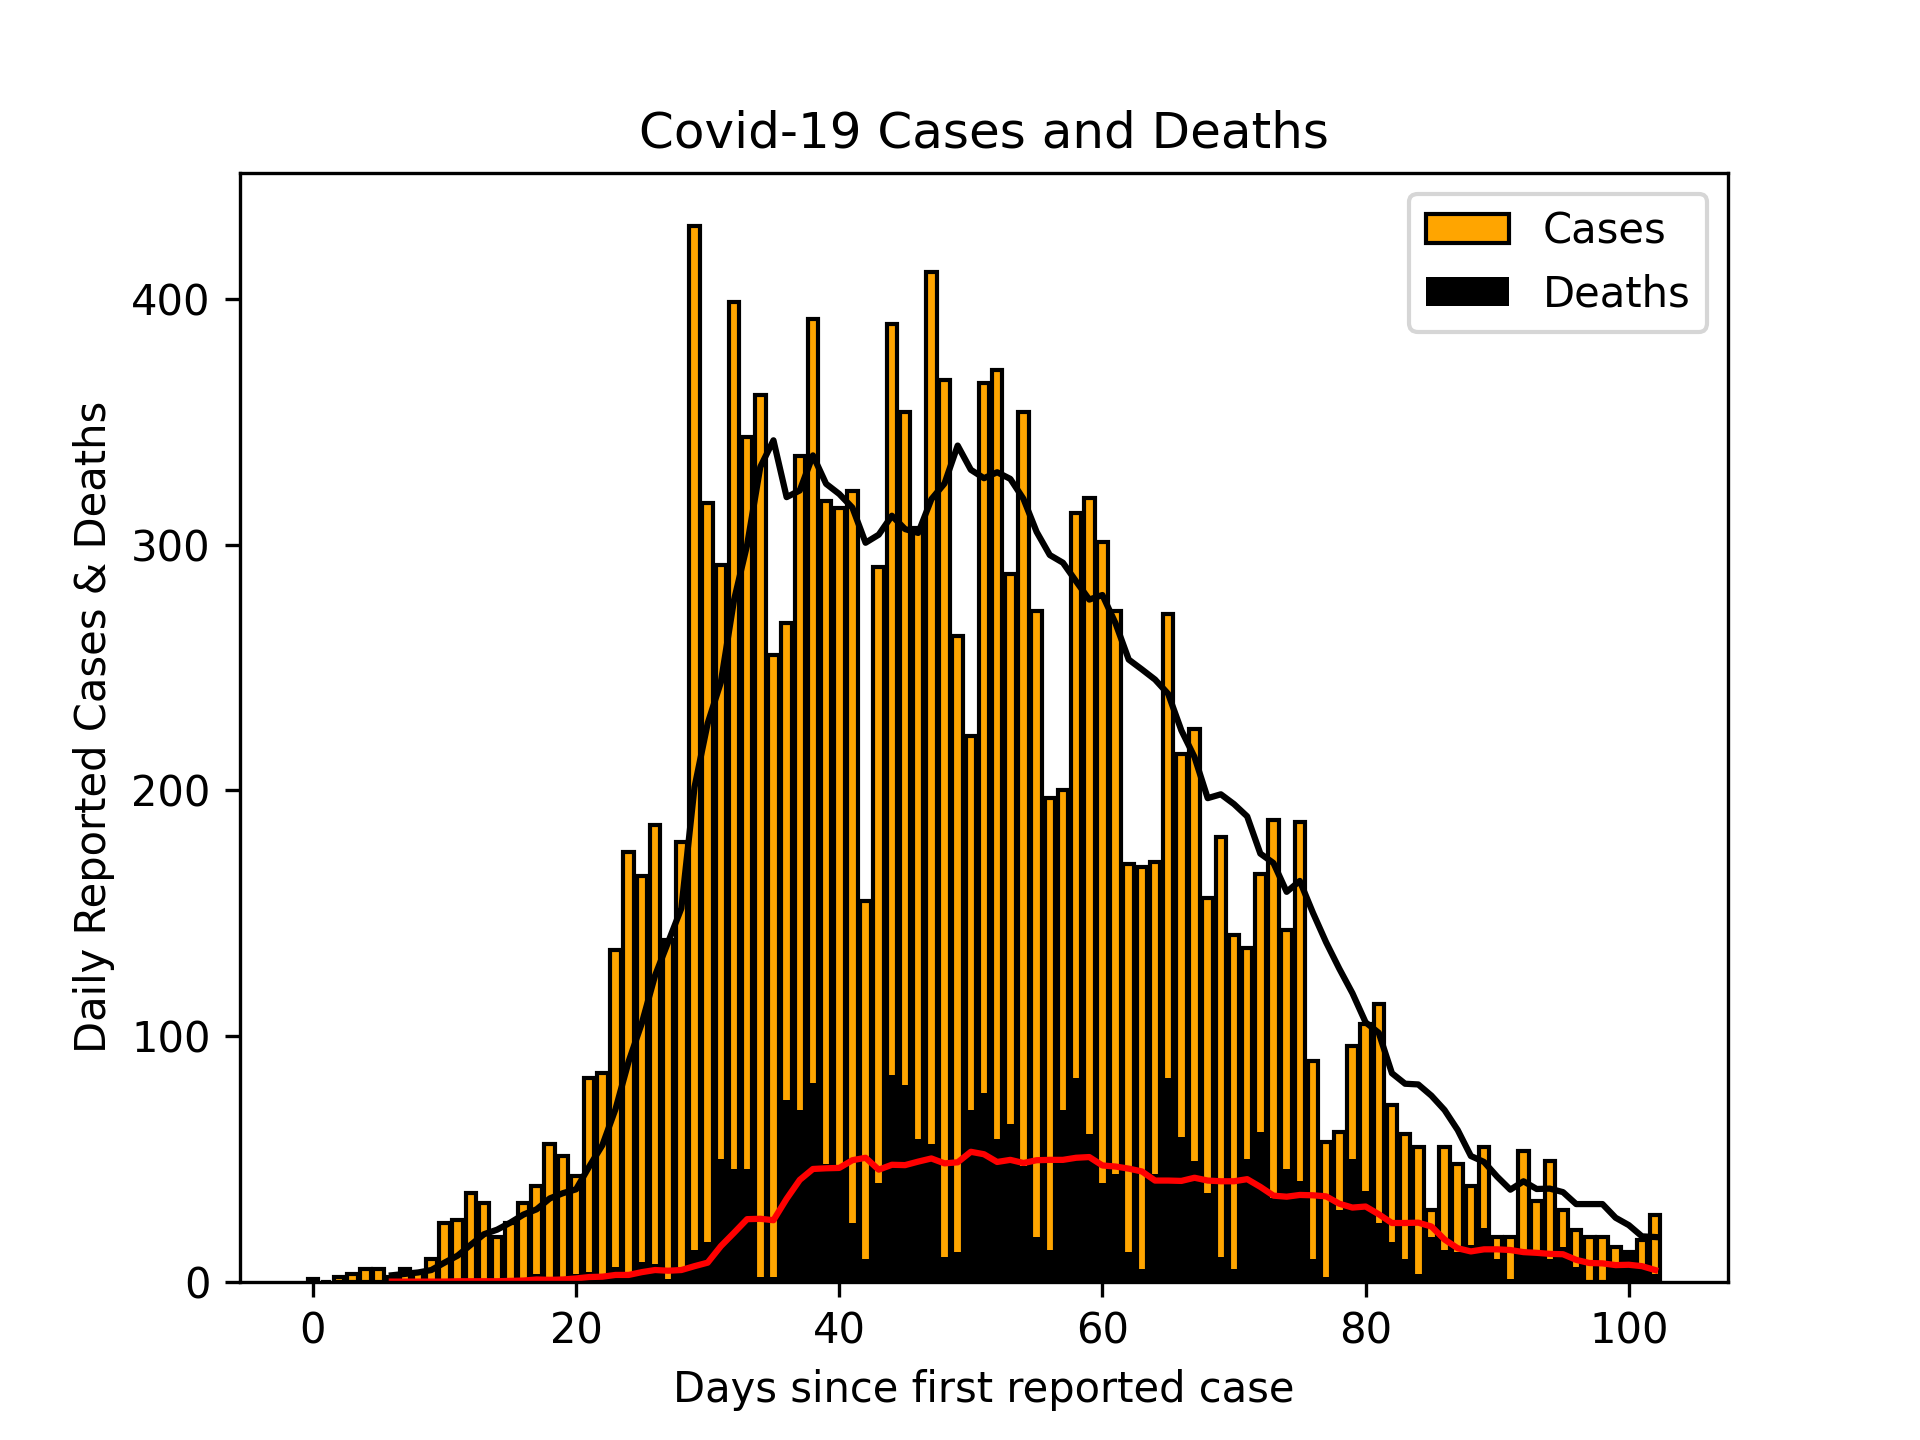
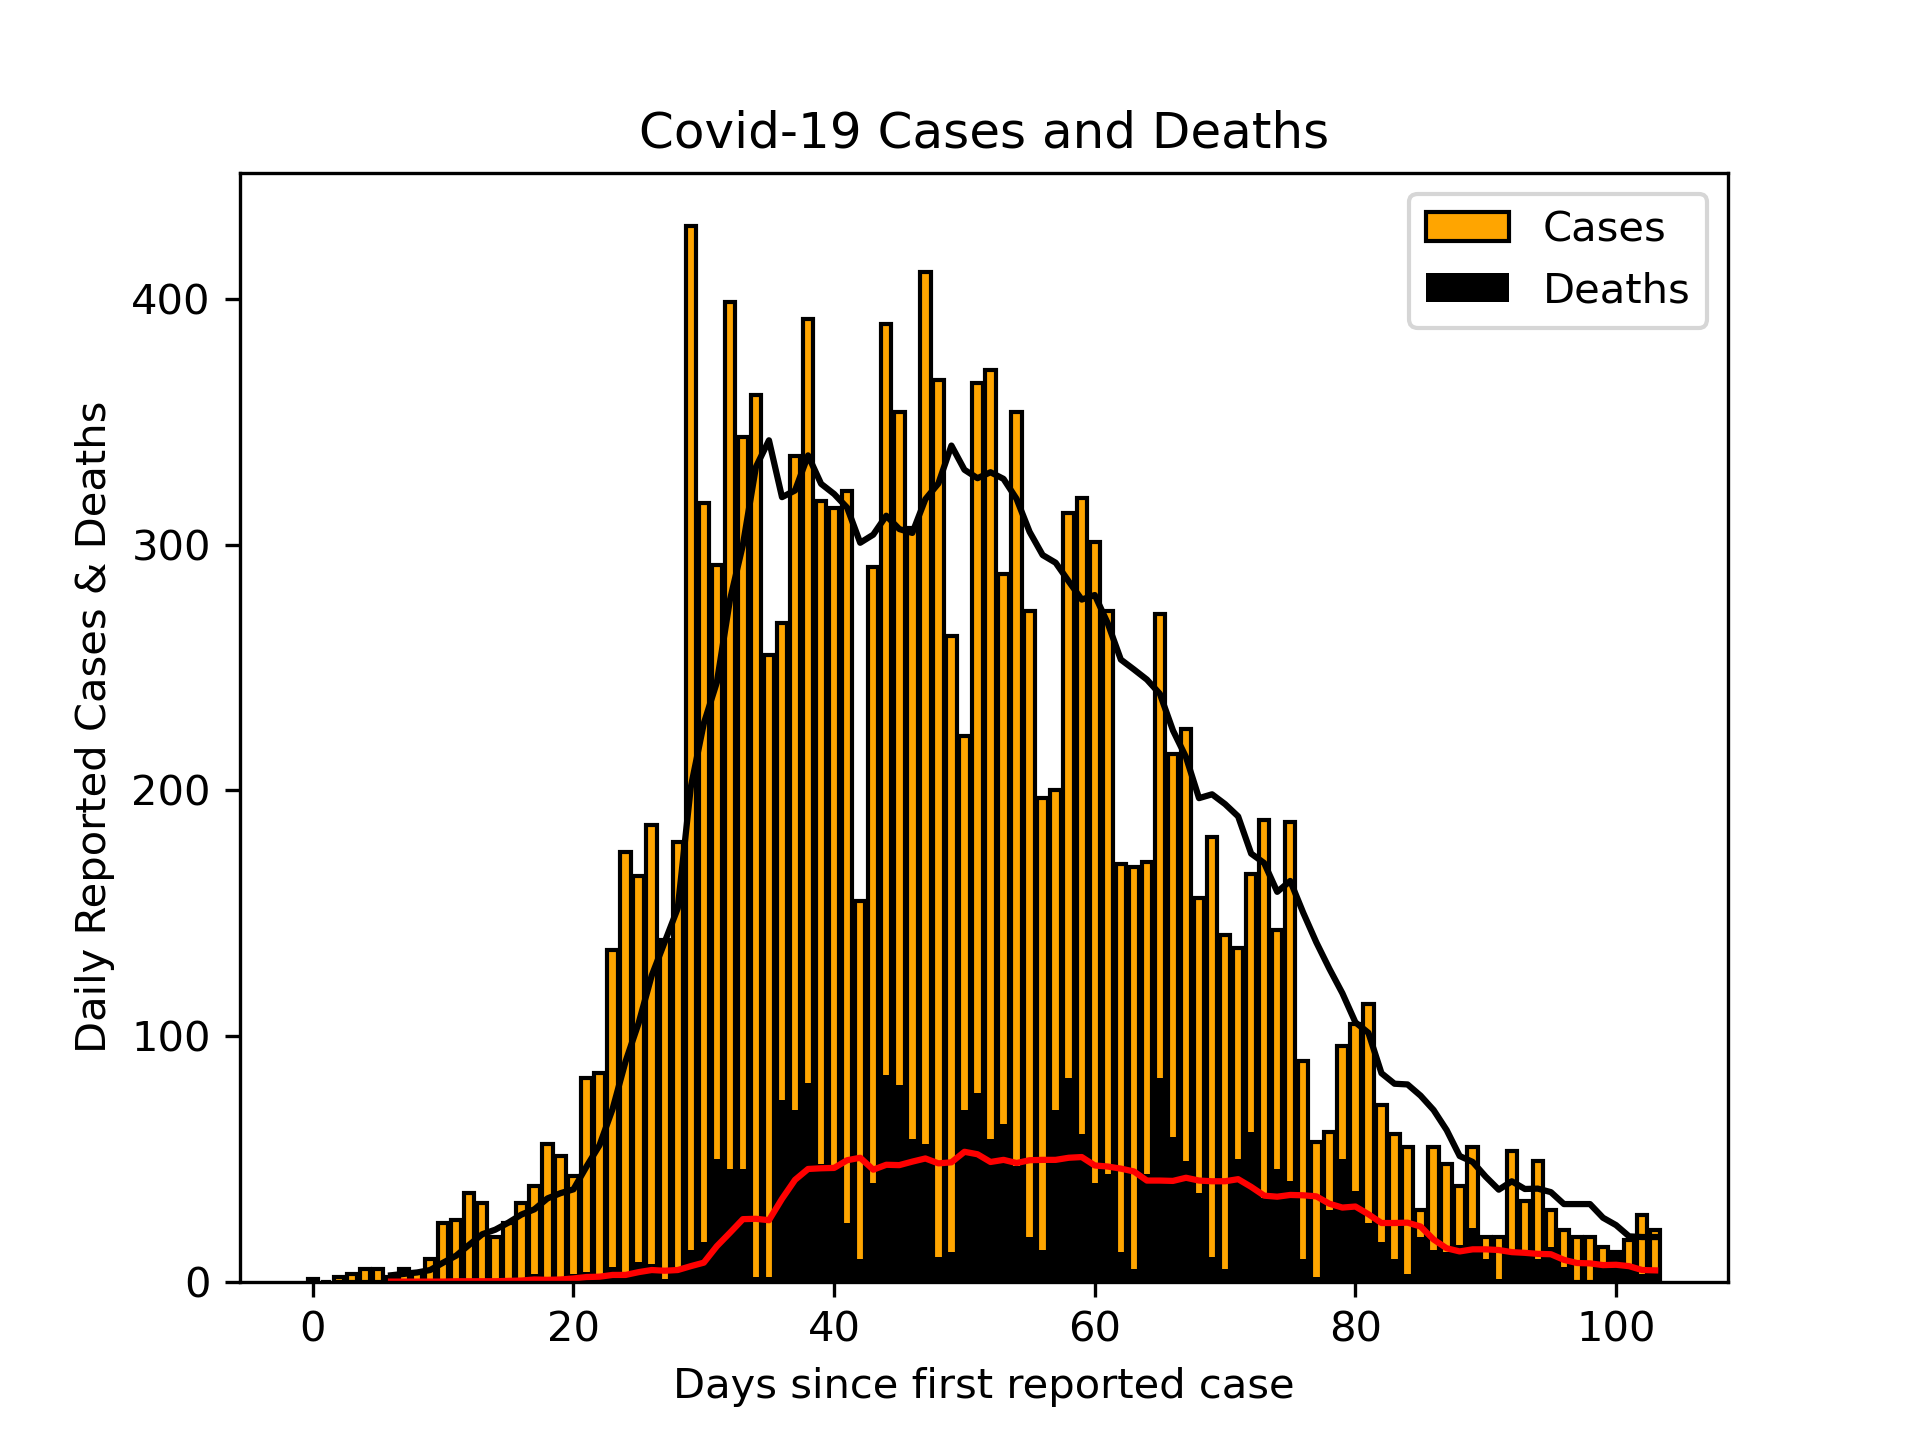
Updated Scottish cases 13/06/20

diff --git a/README.md b/README.md
@@ -1,4 +1,4 @@
-# Scottish Cases 12/06/20
+# Scottish Cases 13/06/20
 ![alt](scottish_cases.png)
 
 # UK Cases 12/06/20
